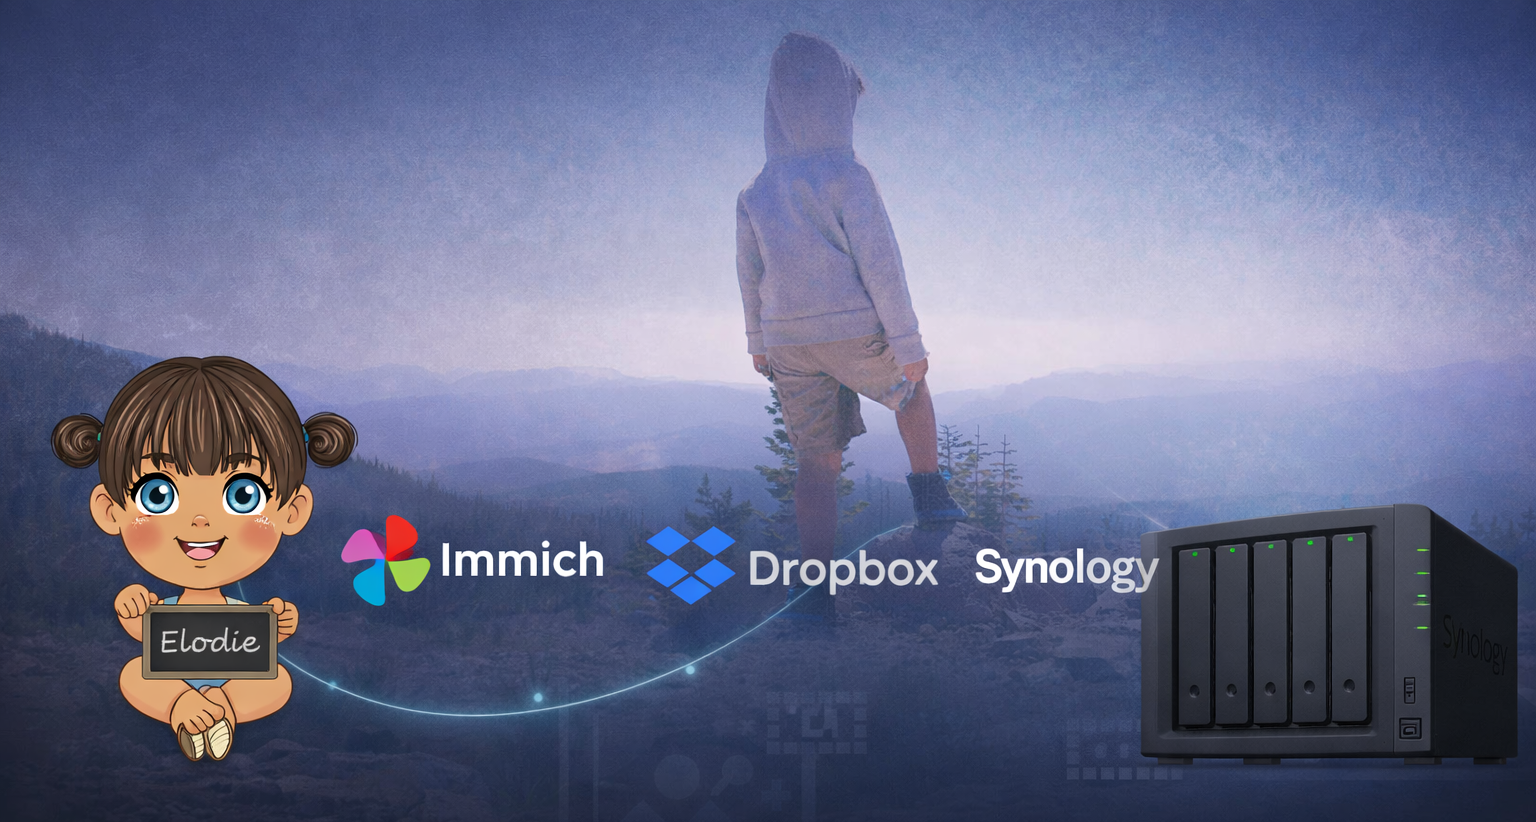
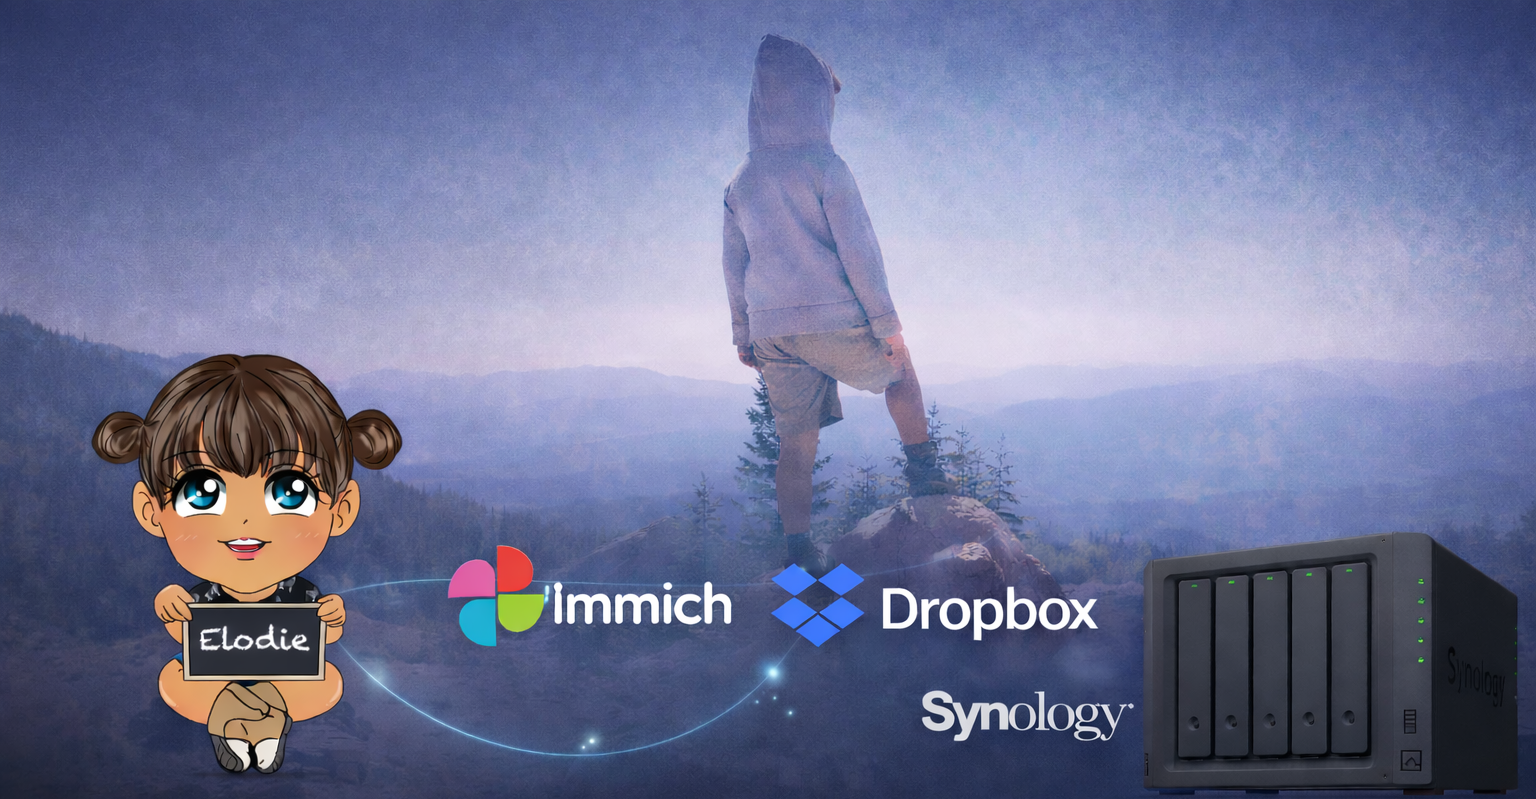
update post and image

diff --git a/_posts/2026-01-16-my-ridiculously-robust-photo-management-system-immich-edition.md b/_posts/2026-01-16-my-ridiculously-robust-photo-management-system-immich-edition.md
@@ -6,7 +6,7 @@ category: articles
 logo:  skip
 tags: []
 image:
-  feature: main-photo-workflow-immich.png
+  feature: main-photo-workflow-immich.png?1
 comments: false
 share: true
 ---
@@ -15,10 +15,9 @@ share: true
 
 TL;DR: Changes to albums, descriptions, location, date/time and favorites through Immich are stored in the photo's EXIF and automatically backed up to my Synology NAS and into Dropbox; no database needed. Below is a video for those who prefer to watch instead of read.
 
+I created a simpler version of the plugin I use that suitable for those with their own workflows which might differ from mine. It's available at <a href="https://github.com/jmathai/immich-exif">immich-exif</a>.
 
-  <!-- NeetoRecord inline embed code begins -->
-  <div style="position: relative; padding-bottom: 62.5%; height: 0;" id="inline-embed-container" class="video">
-    <!-- NeetoRecord widget will be added here -->
+  <div style="position: relative; padding-bottom: 62.5%; height: 0;" id="inline-embed-container">
   </div>
   <script>window.neetoRecord = window.neetoRecord || { embed: function(){(neetoRecord.q=neetoRecord.q||[]).push(arguments)} };</script>
   <script async
@@ -27,14 +26,12 @@ TL;DR: Changes to albums, descriptions, location, date/time and favorites throug
   <script>
     neetoRecord.embed({
       type: "inline",
-      id: "27098ea5-8712-4416-a6ee-4148a7ee0c51",
+      id: "c1ad81a2-5f96-443b-9f74-83f4065c957e",
       organization: "lattice",
       elementSelector: "#inline-embed-container",
       styles: "position: absolute; top: 0; left: 0; width: 100%; height: 100%; border: none;", 
     });
   </script>
-  <!-- NeetoRecord inline embed code ends -->
-
 <hr>
 
 I've been working on my photo management and archiving workflow for over 2 decades. It's changed a lot over that time but usually in bursts. It works really well and I don't have to touch it much.
